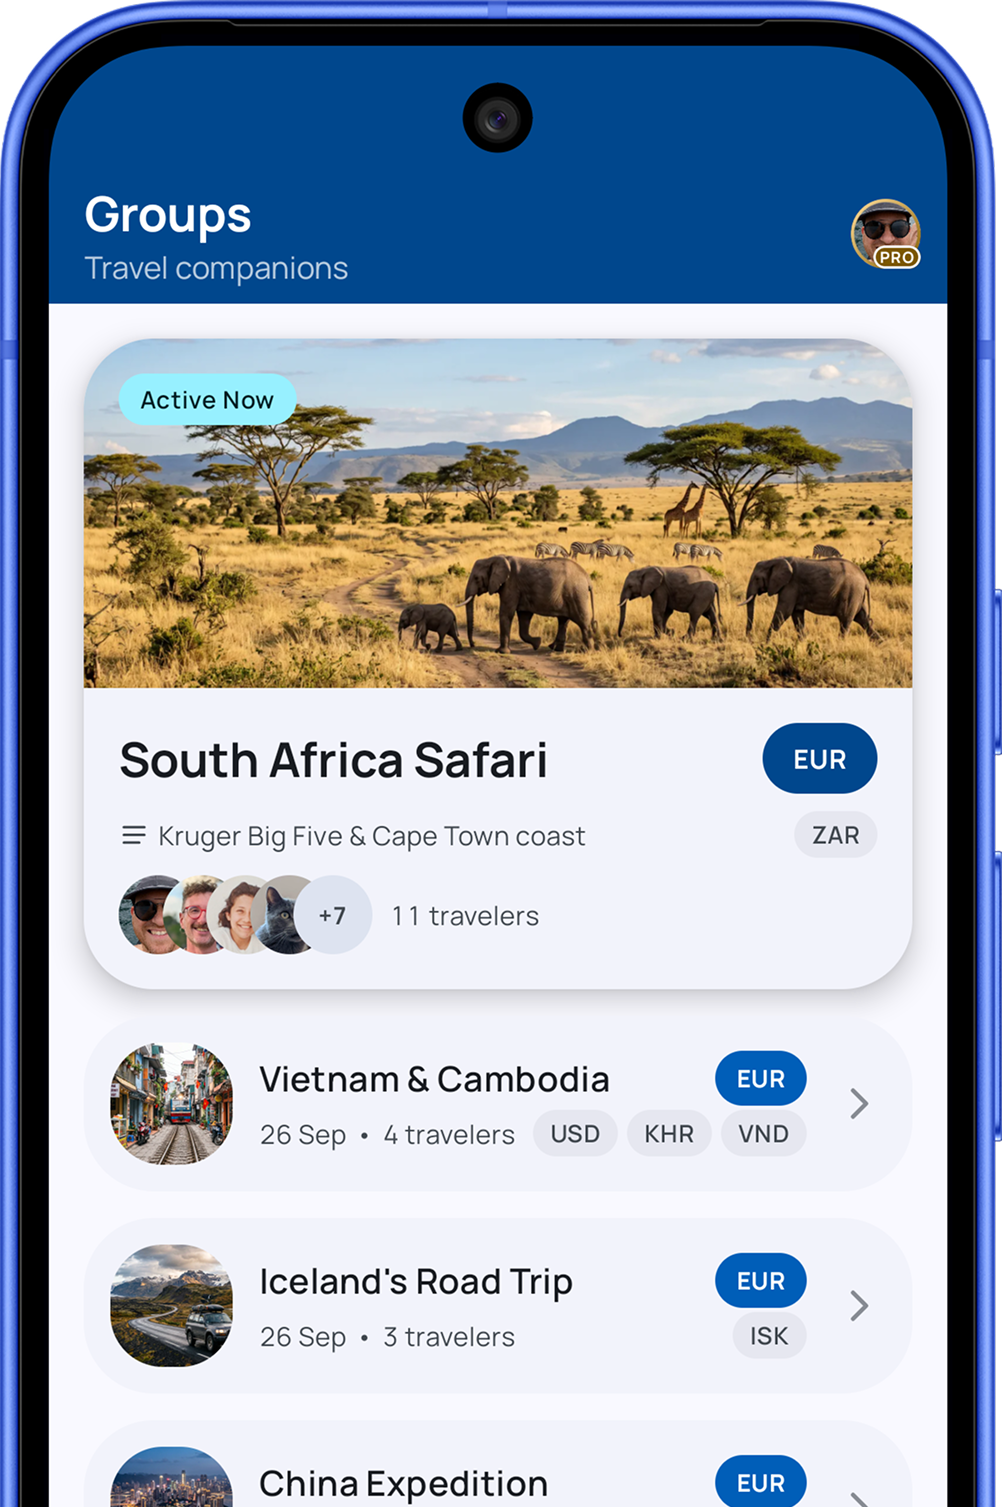
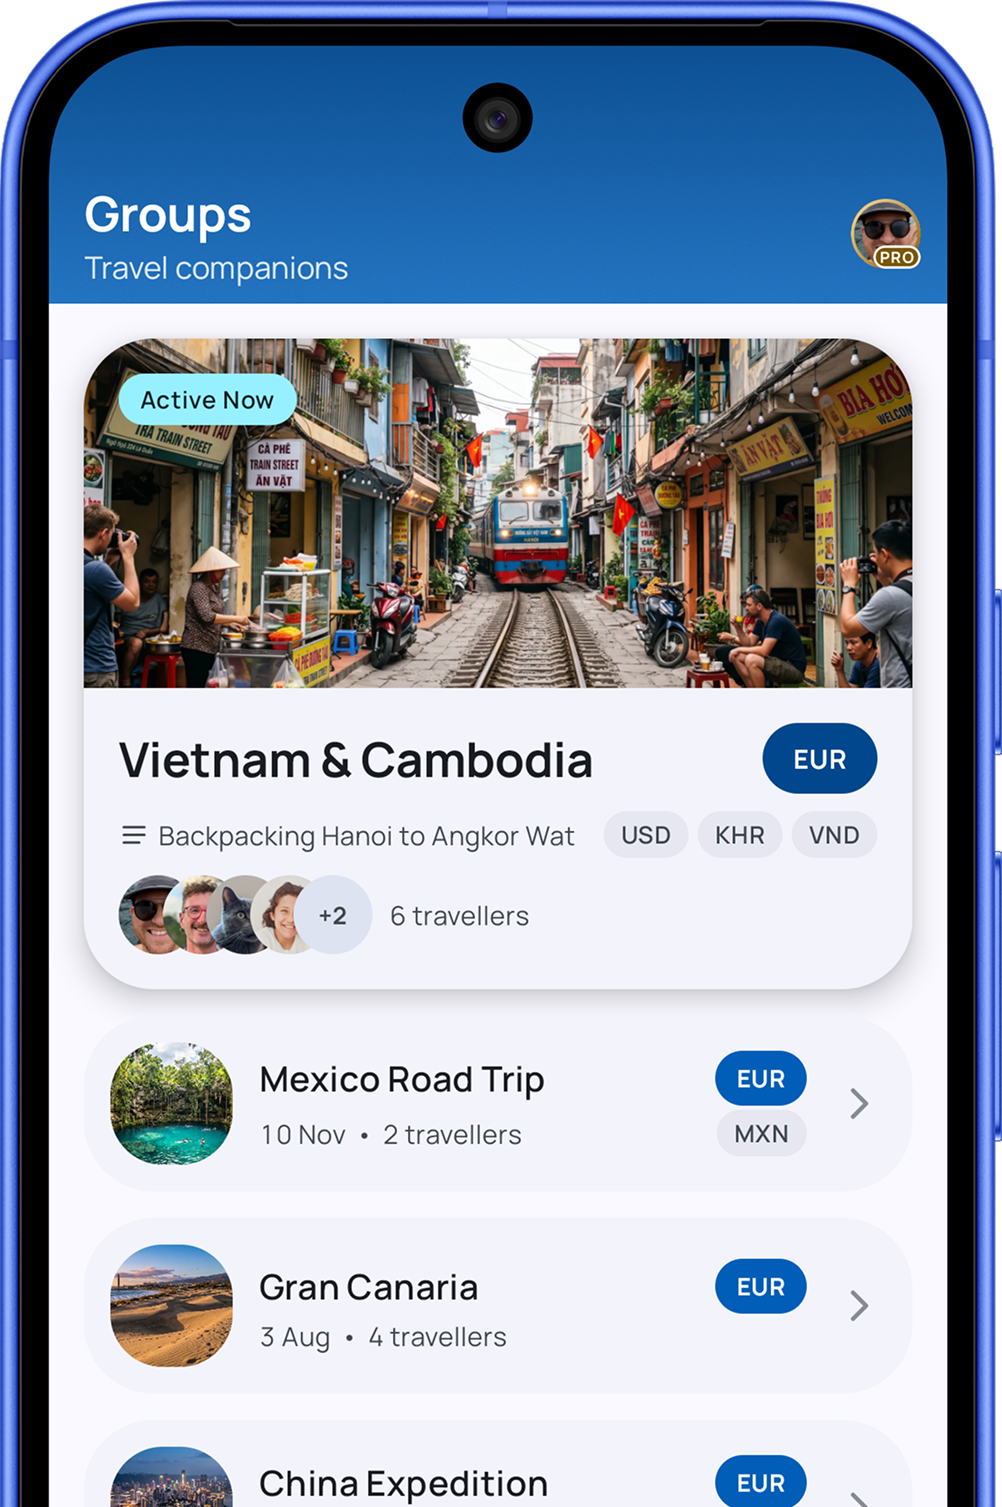
[SPLTRP-1685]: Configure Google Play Console store listing metadata and compliance declarations (#1693)

diff --git a/web/css/styles.css b/web/css/styles.css
@@ -141,6 +141,7 @@ html {
 
 body {
   font-family: var(--font-family);
+  font-size-adjust: from-font;
   background-color: var(--bg-canvas);
   color: var(--text-primary);
   line-height: 1.6;
@@ -718,6 +719,8 @@ html[data-theme="light"] .app-screenshot-frame:hover {
   letter-spacing: -0.03em;
   color: var(--accent-primary);
   margin-bottom: 4px;
+  font-feature-settings: "tnum";
+  font-variant-numeric: tabular-nums;
 }
 
 .stat-label {

diff --git a/web/css/privacy-policy.css b/web/css/privacy-policy.css
@@ -87,6 +87,7 @@ html[data-theme="dark"] {
 
 body {
   font-family: var(--font-family);
+  font-size-adjust: from-font;
   background-color: var(--bg-canvas);
   color: var(--text-primary);
   line-height: 1.65;

diff --git a/docs/release/play-console-sdd-runbook.md b/docs/release/play-console-sdd-runbook.md
@@ -1,0 +1,250 @@
+# Google Play Console — SDD Execution Runbook
+
+> **Target Package:** `es.pedrazamiguez.splittrip`  
+> **Source of Truth:** `docs/release/store-listing-metadata.md` & GitHub Issue [#1685](https://github.com/pedrazamiguez/split-trip/issues/1685)  
+> **Standard:** British English (`en-GB`) per [#1691](https://github.com/pedrazamiguez/split-trip/issues/1691) & Castilian Spanish (`es-ES`)  
+
+This document is the **Spec-Driven Development (SDD) Runbook** for human developer execution in the Google Play Console web dashboard. Every form, dropdown, radio button, and checkbox is specified deterministically below.
+
+---
+
+## Overview: Codebase Deliverables vs. Console Actions
+
+```
+┌────────────────────────────────────────────────────────────────────────┐
+│                   REPOSITORY ASSETS (Ready to Upload)                  │
+│                                                                        │
+│  - Text Copy: docs/release/assets/{en-GB, en-US, es-ES}/               │
+│  - App Icon: docs/release/assets/icon.png (512x512 PNG)                │
+│  - Feature Graphic: docs/release/assets/feature-graphic.png (1024x500) │
+│  - Screenshots: docs/release/assets/screenshots/phone/                 │
+└───────────────────────────────────┬────────────────────────────────────┘
+                                    │ (Developer upload & entry)
+                                    ▼
+┌────────────────────────────────────────────────────────────────────────┐
+│                     GOOGLE PLAY CONSOLE OPERATIONS                     │
+│               (Manual Execution via Web UI per this Runbook)           │
+└────────────────────────────────────────────────────────────────────────┘
+```
+
+---
+
+## Phase 1: Store Settings & Contact Details
+
+**Navigation:** *Presencia en Google Play Store > Configuración de la tienda* (Store presence > Store settings)
+
+| Field / Setting | Value to Enter / Select | Notes |
+| :--- | :--- | :--- |
+| **Tipo de aplicación (App / Game)** | **Aplicación** (App) | Financial & travel ledger |
+| **Categoría principal (Category)** | **Finanzas** (Finance) | Required |
+| **Etiquetas (Tags)** | `Viajes y guías locales` (Travel & Local), `Finanzas personales` (Personal Finance) | Max 5 tags |
+| **Dirección de correo electrónico** | `support@splittrip.eu` | Public developer contact |
+| **Número de teléfono** | *(Leave blank / optional)* | Not required |
+| **Sitio web (Website)** | `https://splittrip.eu` | Production domain |
+
+*Action:* Click **Guardar** (Save).
+
+---
+
+## Phase 2: App Content Declarations (Contenido de la aplicación)
+
+**Navigation:** *Directivas y programas > Contenido de la aplicación* (Policy and programs > App content)
+
+### 1. Política de privacidad (Privacy Policy)
+- **URL de la política de privacidad:** `https://splittrip.eu/privacy-policy.html`
+- *Action:* Click **Guardar** (Save).
+
+### 2. Anuncios (Ads)
+- **¿Tu aplicación contiene anuncios?**
+  - Select: **Sí, contiene anuncios** (Yes, contains ads)
+  - *Reasoning:* SplitTrip Free tier integrates Google Mobile Ads (AdMob banner & interstitial). Pro tier is ad-free.
+- *Action:* Click **Guardar**.
+
+### 3. Acceso a aplicaciones (App Access)
+- **¿Alguna función de tu aplicación está restringida?**
+  - Select: **Todas las funciones están disponibles sin restricciones** (All functionality is available without special access)
+  - *Reasoning:* The app supports email login, Google sign-in, and guest browsing. No proprietary hardware or restricted geofencing is required for testing.
+- *Action:* Click **Guardar**.
+
+### 4. Público objetivo y contenido (Target Audience)
+- **Grupos de edad a los que se dirige tu aplicación:**
+  - Check: **18 años o más** (18 and older)
+- **Presencia en la tienda de aplicaciones para niños:**
+  - Select: **No** (The app is not designed specifically for children)
+- *Action:* Click **Guardar**.
+
+### 5. Aplicaciones de noticias (News Apps)
+- **¿Tu aplicación es una aplicación de noticias?**
+  - Select: **No**
+- *Action:* Click **Guardar**.
+
+### 6. Rastreo de contactos y estado de COVID-19
+- Select: **Mi aplicación no es una aplicación de rastreo ni de confirmación del estado de contactos por COVID-19**
+- *Action:* Click **Guardar**.
+
+### 7. Seguridad de los datos (Data Safety Questionnaire)
+
+Follow this exact mapping:
+
+#### General Questions:
+1. **¿Tu aplicación recoge o comparte alguno de los tipos de datos de usuario requeridos?** -> **Sí** (Yes)
+2. **¿Todos los datos de usuario recogidos por tu aplicación están cifrados en tránsito?** -> **Sí** (Yes — TLS 1.3 enforced across all endpoints)
+3. **¿Ofreces un método para que los usuarios soliciten la eliminación de sus datos?** -> **Sí** (Yes)
+   - In-app self-service at `Settings > Account Status`
+   - URL for request: `https://splittrip.eu/privacy-policy.html#deletion`
+
+#### Specific Data Types to Declare:
+
+1. **Información personal (Personal info):**
+   - **Nombre (Name):**
+     - Recogido: **Sí** | Compartido: **No** | Epímero: **No** | Requerido
+     - Finalidad: **Funciones de la aplicación**, **Gestión de cuentas**
+   - **Dirección de correo electrónico (Email address):**
+     - Recogido: **Sí** | Compartido: **No** | Epímero: **No** | Requerido
+     - Finalidad: **Funciones de la aplicación**, **Gestión de cuentas**
+   - **IDs de usuario (User IDs):**
+     - Recogido: **Sí** | Compartido: **No** | Epímero: **No** | Requerido
+     - Finalidad: **Funciones de la aplicación** (Firebase Auth UID)
+
+2. **Información financiera (Financial info):**
+   - **Información de pago del usuario (tarjetas de crédito, cuentas bancarias):** **No se recoge** (No)
+   - **Otra información financiera:**
+     - Recogido: **Sí** | Compartido: **No** | Epímero: **No** | Requerido
+     - Finalidad: **Funciones de la aplicación** (Gastos compartidos, saldos, acuerdos de pago entre amigos)
+
+3. **Fotos y vídeos (Photos and videos):**
+   - **Fotos (Photos):**
+     - Recogido: **Sí** | Compartido: **No** | Epímero: **No** | **Opcional**
+     - Finalidad: **Funciones de la aplicación** (Subida de fotos de tiques/recibos y avatares de grupo)
+
+4. **Información y rendimiento de aplicaciones (App info and performance):**
+   - **Registros de fallos (Crash logs):**
+     - Recogido: **Sí** | Compartido: **No** | Requerido
+     - Finalidad: **Análisis y diagnóstico** (Firebase Crashlytics, retención máxima 90 días)
+   - **Diagnósticos (Diagnostics):**
+     - Recogido: **Sí** | Compartido: **No** | Requerido
+     - Finalidad: **Rendimiento** (Firebase Performance Monitoring)
+
+5. **Dispositivo u otros identificadores (Device or other IDs):**
+   - **ID de publicidad (Advertising ID / AAID):**
+     - Recogido: **Sí** | Compartido: **Sí** (con Google AdMob) | Epímero: **No** | **Opcional**
+     - Finalidad: **Publicidad o marketing** (Google AdMob con consentimiento UMP)
+
+6. **Ubicación (Location):**
+   - **Ubicación aproximada:**
+     - Recogido: **Sí** | Compartido: **Sí** | **Opcional**
+     - Finalidad: **Publicidad o marketing** (Derivada por IP por Google AdMob)
+
+*Action:* Click **Guardar**.
+
+### 8. ID de publicidad (Advertising ID)
+- **¿Tu aplicación usa el ID de publicidad?** -> Select **Sí** (Yes)
+- **¿Para qué se usa el ID de publicidad?** -> Check **Publicidad o marketing** (Advertising or marketing)
+- *Action:* Click **Guardar**.
+
+### 9. Funciones financieras (Financial Features)
+- **¿Tu aplicación ofrece funciones financieras?** -> Select **Gestión de finanzas personales (registro de gastos y presupuestos)**
+- *Confirmation:* Confirm SplitTrip is an expense ledger, NOT a licensed bank, lender, cryptocurrency exchange, or payment processor.
+- *Action:* Click **Guardar**.
+
+### 10. Clasificación del contenido (Content Ratings Questionnaire)
+1. **Email:** `support@splittrip.eu`
+2. **Categoría:** **Utilidad, productividad, comunicación u otro** (Utility, Productivity, Communication, or Other)
+3. **Respuestas:**
+   - ¿Violencia? -> **No**
+   - ¿Sexualidad o desnudos? -> **No**
+   - ¿Lenguaje ofensivo? -> **No**
+   - ¿Sustancias controladas (drogas, tabaco, alcohol)? -> **No**
+   - ¿Venta de artículos con restricción de edad? -> **No**
+   - ¿Permite a los usuarios interactuar o intercambiar contenido? -> **Sí** (permite registrar y compartir gastos comunes en viajes)
+   - ¿Comparte ubicación física exacta? -> **No**
+   - ¿Permite comprar bienes digitales? -> **No** (las suscripciones Pro se gestionarán a través de Google Play Billing)
+4. Submit questionnaire -> Rating awarded: **PEGI 3 / ESRB Everyone**.
+5. *Action:* Click **Guardar y aplicar**.
+
+---
+
+## Phase 3: Ficha de Play Store predeterminada (Default Store Listing - English)
+
+**Navigation:** *Presencia en Google Play Store > Ficha de Play Store principal* (Store presence > Main store listing)
+
+### Text Resources
+Copy directly from repository files:
+
+- **Nombre de la aplicación (App Name) [max 30 chars]:**  
+  File: `docs/release/assets/en-GB/title.txt`
+  ```text
+  SplitTrip: Group Expenses
+  ```
+
+- **Descripción breve (Short Description) [max 80 chars]:**  
+  File: `docs/release/assets/en-GB/short_description.txt`
+  ```text
+  Split travel expenses offline & multi-currency. Fair debts, zero stress.
+  ```
+
+- **Descripción completa (Full Description) [max 4,000 chars]:**  
+  File: `docs/release/assets/en-GB/full_description.txt`  
+  *(Open file and paste entire content)*
+
+### Graphic Assets
+Upload directly from repository:
+
+1. **Icono de la aplicación (App Icon - 512x512):**  
+   Upload `docs/release/assets/icon.png`
+2. **Gráfico de funciones (Feature Graphic - 1024x500):**  
+   Upload `docs/release/assets/feature-graphic.png`
+3. **Vídeo:**  
+   Leave blank (optional field).
+4. **Capturas de pantalla del teléfono (Phone Screenshots):**  
+   Upload the 6 PNG captures from `docs/release/assets/screenshots/phone/`:
+   - `01_trips_hub.png`
+   - `02_expense_log.png`
+   - `03_fair_splits.png`
+   - `04_group_pocket.png`
+   - `05_settlement_consensus.png`
+   - `06_receipt_scanner.png`
+5. **Capturas de pantalla de tablets (7" y 10"):**  
+   Upload tablet captures from `docs/release/assets/screenshots/tablet-7/` and `tablet-10/`.
+
+*Action:* Click **Guardar**.
+
+---
+
+## Phase 4: Traducción de la ficha de Play Store (Spanish - `es-ES`)
+
+In the same Main store listing screen:
+1. Click **Gestionar traducciones > Añadir tu propia traducción** (Manage translations > Add your own translation).
+2. Select language: **Español (España) (es-ES)**.
+3. Enter values from repository files:
+
+- **Nombre de la aplicación:**  
+  File: `docs/release/assets/es-ES/title.txt`
+  ```text
+  SplitTrip: Gastos de viaje
+  ```
+
+- **Descripción breve:**  
+  File: `docs/release/assets/es-ES/short_description.txt`
+  ```text
+  Divide gastos de viaje sin conexión y multidivisa. Cuentas claras sin estrés.
+  ```
+
+- **Descripción completa:**  
+  File: `docs/release/assets/es-ES/full_description.txt`  
+  *(Open file and paste entire content)*
+
+*Action:* Click **Guardar**.
+
+---
+
+## Phase 5: Verification Checklist Before Release Submission
+
+- [ ] All mandatory compliance declarations in *Contenido de la aplicación* marked with green checkmarks.
+- [ ] English (`en-GB`/`en-US`) store listing title, short description, and full description saved.
+- [ ] Spanish (`es-ES`) store listing title, short description, and full description saved.
+- [ ] App icon (512x512) and feature graphic (1024x500) uploaded and validated.
+- [ ] Phone screenshots (minimum 4, recommended 6) uploaded.
+- [ ] Privacy policy link `https://splittrip.eu/privacy-policy.html` active and accessible.
+- [ ] Data deletion request URL verified in Data Safety form.
+- [ ] Content rating approved (PEGI 3 / ESRB Everyone).

diff --git a/docs/release/store-listing-metadata.md b/docs/release/store-listing-metadata.md
@@ -2,6 +2,7 @@
 
 > [!IMPORTANT]
 > **Source of Truth:** This document is the single source of truth for Google Play Console store listing copy, categorization, Data Safety declarations, and graphic asset specifications for **SplitTrip**.
+> For the step-by-step developer execution runbook in Google Play Console, see [`docs/release/play-console-sdd-runbook.md`](play-console-sdd-runbook.md).
 
 ---
 
@@ -22,7 +23,10 @@
 
 ---
 
-## 2. English Store Listing (`en-GB`)
+## 2. English Store Listing (`en-GB` / `en-US`)
+
+> [!NOTE]
+> Per [#1691](https://github.com/pedrazamiguez/split-trip/issues/1691), all English copy is standardised to British English (`en-GB`) to align with SplitTrip's primary European travel market and `splittrip.eu` identity. Both `en-GB` and `en-US` listings use this unified copy.
 
 ### App Title (25 / 30 characters)
 ```text
@@ -34,11 +38,11 @@ SplitTrip: Group Expenses
 Split travel expenses offline & multi-currency. Fair debts, zero stress.
 ```
 
-### Full Description (2,486 / 4,000 characters)
+### Full Description (2,488 / 4,000 characters)
 ```text
 Travelling with friends, family, or your partner should be about making memories—not doing accounting gymnastics in messy spreadsheets. SplitTrip is the modern, offline-first group expense manager crafted specifically for travellers who cross borders, share expenses, and value fairness.
 
-Whether you're backpacking through Southeast Asia, organising a European road trip, or sharing an apartment with roommates, SplitTrip handles complex currencies, cash pockets, and debt settlements effortlessly.
+Whether you're backpacking through Southeast Asia, organising a European road trip, or sharing an apartment with flatmates, SplitTrip handles complex currencies, cash pockets, and debt settlements effortlessly.
 
 ⚡ TRUE OFFLINE-FIRST ARCHITECTURE
 Log expenses anywhere—on a mountain hike, on a flight, or in remote areas with zero cell reception. SplitTrip writes all transactions instantly to your local device database. When internet connection is restored, background synchronisation reconciles changes across your entire group automatically.
@@ -61,6 +65,7 @@ Snap a photo of your dining or taxi receipt. SplitTrip extracts the total, tax, 
 🔒 AD-FREE WITH PRO & PRIVACY-FIRST
 Your financial data belongs to you. No bank linking or credit cards required. SplitTrip is a dedicated travel expense ledger—we never access your personal bank accounts or process money transfers. SplitTrip Pro offers an entirely ad-free experience, while the Free tier includes non-intrusive banner and occasional interstitial ads. SplitTrip never sells your transaction history to data brokers.
 ```
+
 
 ---
 
@@ -175,3 +180,21 @@ A minimum of 4 and maximum of 8 screenshots are required. The recommended 6-scre
 ### Tablet Screenshots Specification
 - **7-inch Tablet:** Minimum 1 screenshot (min 1200 x 1920 or 1920 x 1200), max 8 screenshots. Recommended: Trips Hub & Balances Dashboard in 2-pane master-detail layout.
 - **10-inch Tablet:** Minimum 1 screenshot (min 1600 x 2560 or 2560 x 1600), max 8 screenshots. Recommended: Expense Log with side-by-side expense preview.
+
+---
+
+### Promotional Video (YouTube URL)
+
+- **Google Play Field Status:** **Optional** (unstarred).
+- **v1.0.0 Launch Strategy:** Leave empty for initial MVP submission to unblock closed testing and production rollout without video production lead time.
+- **Policy Requirements for Future Updates:**
+  - Standard YouTube video URL (`https://www.youtube.com/watch?v=...`).
+  - Video must be Public or Unlisted.
+  - Ads and monetization must be disabled.
+  - Landscape 16:9 orientation (1920 x 1080).
+- **Target 30-Second Storyboard (Post-MVP):**
+  - `00:00–00:05`: Group arriving in Tokyo / Barcelona — split-second expense entry in JPY/EUR with zero cell coverage (*"Offline-First Ledger"*).
+  - `00:05–00:12`: Multi-currency receipt scan with AI itemization assigning dishes to individuals and couples (*"Smart Receipt OCR"*).
+  - `00:12–00:20`: Group pocket fund tracking & cash withdrawal with FIFO multi-currency precision (*"Virtual Pocket & Cash"*).
+  - `00:20–00:26`: "Your Position" consensus matrix reducing 15 debts to 2 simple transfers (*"Settlement Consensus"*).
+  - `00:26–00:30`: Horizon branding, tagline *"Split expenses without borders"*, and call-to-action on Google Play.
